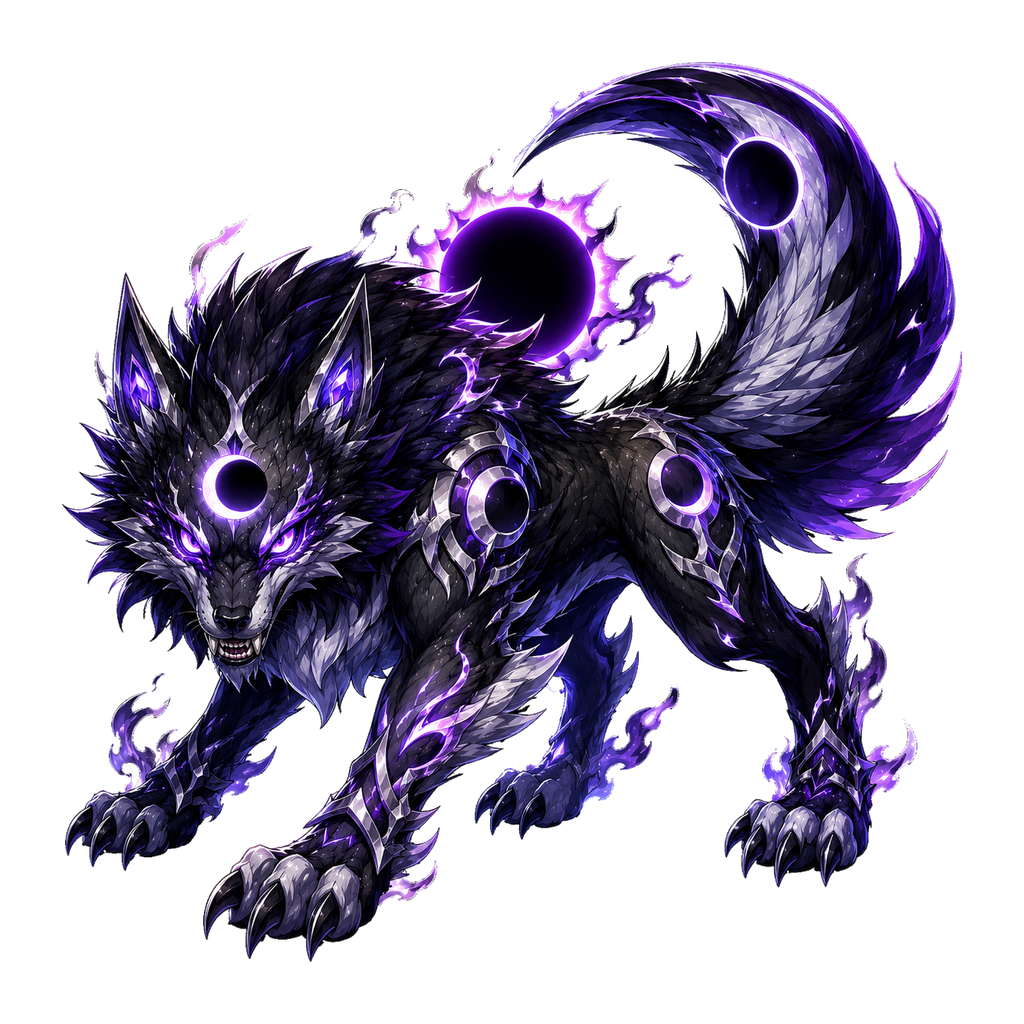
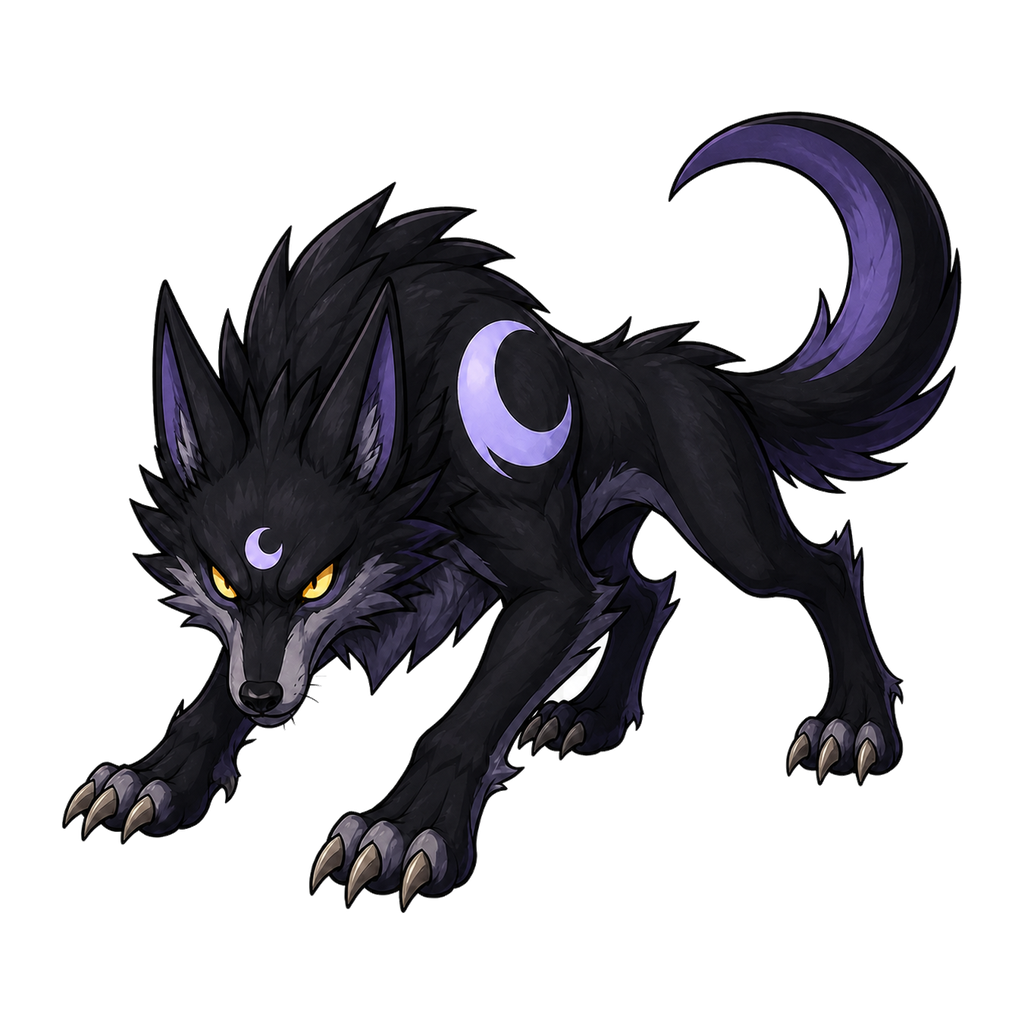
Refresh Phoenix Drake and Eclipse Wolf for v8.6-A.66

diff --git a/index.html b/index.html
@@ -8,11 +8,11 @@
   <meta name="apple-mobile-web-app-capable" content="yes" />
   <meta name="apple-mobile-web-app-status-bar-style" content="black-translucent" />
   <meta name="apple-mobile-web-app-title" content="Monster Links" />
-  <title>モンスターリンクス v8.6-A.65</title>
-  <link rel="manifest" href="manifest.webmanifest?v=8.6-A.65" />
+  <title>モンスターリンクス v8.6-A.66</title>
+  <link rel="manifest" href="manifest.webmanifest?v=8.6-A.66" />
   <link rel="icon" href="assets/images/ui/app-icon-192.png" sizes="192x192" />
   <link rel="apple-touch-icon" href="assets/images/ui/apple-touch-icon.png" />
-  <link rel="stylesheet" href="css/style.css?v=8.6-A.65" />
+  <link rel="stylesheet" href="css/style.css?v=8.6-A.66" />
 </head>
 <body>
   <div id="app" class="app"></div>
@@ -21,50 +21,50 @@
     v3.1: 公開後の見た目 polish。タイトル画面、図鑑、戦闘画面を見やすく調整。
     import/export や fetch(JSON) を使わないため、ローカルで開いても壊れにくい構成です。
   -->
-  <script src="js/core/config.js?v=8.6-A.65"></script>
-  <script src="js/core/balance.js?v=8.6-A.65"></script>
-  <script src="js/core/skills.js?v=8.6-A.65"></script>
-  <script src="js/core/monsters.js?v=8.6-A.65"></script>
-  <script src="js/core/items.js?v=8.6-A.65"></script>
-  <script src="js/core/stages.js?v=8.6-A.65"></script>
-  <script src="js/core/arena.js?v=8.6-A.65"></script>
-  <script src="js/core/recipes.js?v=8.6-A.65"></script>
-  <script src="js/core/quests.js?v=8.6-A.65"></script>
-  <script src="js/core/data.js?v=8.6-A.65"></script>
-  <script src="js/core/utils.js?v=8.6-A.65"></script>
-  <script src="js/core/state.js?v=8.6-A.65"></script>
-  <script src="js/app.js?v=8.6-A.65"></script>
-  <script src="js/systems/battle.js?v=8.6-A.65"></script>
-  <script src="js/systems/arena.js?v=8.6-A.65"></script>
-  <script src="js/systems/fusion.js?v=8.6-A.65"></script>
-  <script src="js/systems/monster.js?v=8.6-A.65"></script>
-  <script src="js/systems/shop.js?v=8.6-A.65"></script>
-  <script src="js/systems/quest.js?v=8.6-A.65"></script>
-  <script src="js/systems/devtools.js?v=8.6-A.65"></script>
-  <script src="js/systems/filters.js?v=8.6-A.65"></script>
-  <script src="js/systems/fusionGoals.js?v=8.6-A.65"></script>
-  <script src="js/systems/dex.js?v=8.6-A.65"></script>
-  <script src="js/views/layoutView.js?v=8.6-A.65"></script>
-  <script src="js/views/titleView.js?v=8.6-A.65"></script>
-  <script src="js/views/imageView.js?v=8.6-A.65"></script>
-  <script src="js/views/uiView.js?v=8.6-A.65"></script>
-  <script src="js/views/monsterComponents.js?v=8.6-A.65"></script>
-  <script src="js/views/fusionGoalsView.js?v=8.6-A.65"></script>
-  <script src="js/views/homeView.js?v=8.6-A.65"></script>
-  <script src="js/views/stageView.js?v=8.6-A.65"></script>
-  <script src="js/views/monsterView.js?v=8.6-A.65"></script>
-  <script src="js/views/fusionView.js?v=8.6-A.65"></script>
-  <script src="js/views/dexView.js?v=8.6-A.65"></script>
-  <script src="js/views/questView.js?v=8.6-A.65"></script>
-  <script src="js/views/shopView.js?v=8.6-A.65"></script>
-  <script src="js/views/settingsView.js?v=8.6-A.65"></script>
-  <script src="js/views/menuView.js?v=8.6-A.65"></script>
-  <script src="js/views/arenaView.js?v=8.6-A.65"></script>
-  <script src="js/views/helpView.js?v=8.6-A.65"></script>
-  <script src="js/views/devToolsView.js?v=8.6-A.65"></script>
-  <script src="js/views/battleView.js?v=8.6-A.65"></script>
-  <script src="js/views/render.js?v=8.6-A.65"></script>
-  <script src="js/pwa.js?v=8.6-A.65"></script>
-  <script src="js/main.js?v=8.6-A.65"></script>
+  <script src="js/core/config.js?v=8.6-A.66"></script>
+  <script src="js/core/balance.js?v=8.6-A.66"></script>
+  <script src="js/core/skills.js?v=8.6-A.66"></script>
+  <script src="js/core/monsters.js?v=8.6-A.66"></script>
+  <script src="js/core/items.js?v=8.6-A.66"></script>
+  <script src="js/core/stages.js?v=8.6-A.66"></script>
+  <script src="js/core/arena.js?v=8.6-A.66"></script>
+  <script src="js/core/recipes.js?v=8.6-A.66"></script>
+  <script src="js/core/quests.js?v=8.6-A.66"></script>
+  <script src="js/core/data.js?v=8.6-A.66"></script>
+  <script src="js/core/utils.js?v=8.6-A.66"></script>
+  <script src="js/core/state.js?v=8.6-A.66"></script>
+  <script src="js/app.js?v=8.6-A.66"></script>
+  <script src="js/systems/battle.js?v=8.6-A.66"></script>
+  <script src="js/systems/arena.js?v=8.6-A.66"></script>
+  <script src="js/systems/fusion.js?v=8.6-A.66"></script>
+  <script src="js/systems/monster.js?v=8.6-A.66"></script>
+  <script src="js/systems/shop.js?v=8.6-A.66"></script>
+  <script src="js/systems/quest.js?v=8.6-A.66"></script>
+  <script src="js/systems/devtools.js?v=8.6-A.66"></script>
+  <script src="js/systems/filters.js?v=8.6-A.66"></script>
+  <script src="js/systems/fusionGoals.js?v=8.6-A.66"></script>
+  <script src="js/systems/dex.js?v=8.6-A.66"></script>
+  <script src="js/views/layoutView.js?v=8.6-A.66"></script>
+  <script src="js/views/titleView.js?v=8.6-A.66"></script>
+  <script src="js/views/imageView.js?v=8.6-A.66"></script>
+  <script src="js/views/uiView.js?v=8.6-A.66"></script>
+  <script src="js/views/monsterComponents.js?v=8.6-A.66"></script>
+  <script src="js/views/fusionGoalsView.js?v=8.6-A.66"></script>
+  <script src="js/views/homeView.js?v=8.6-A.66"></script>
+  <script src="js/views/stageView.js?v=8.6-A.66"></script>
+  <script src="js/views/monsterView.js?v=8.6-A.66"></script>
+  <script src="js/views/fusionView.js?v=8.6-A.66"></script>
+  <script src="js/views/dexView.js?v=8.6-A.66"></script>
+  <script src="js/views/questView.js?v=8.6-A.66"></script>
+  <script src="js/views/shopView.js?v=8.6-A.66"></script>
+  <script src="js/views/settingsView.js?v=8.6-A.66"></script>
+  <script src="js/views/menuView.js?v=8.6-A.66"></script>
+  <script src="js/views/arenaView.js?v=8.6-A.66"></script>
+  <script src="js/views/helpView.js?v=8.6-A.66"></script>
+  <script src="js/views/devToolsView.js?v=8.6-A.66"></script>
+  <script src="js/views/battleView.js?v=8.6-A.66"></script>
+  <script src="js/views/render.js?v=8.6-A.66"></script>
+  <script src="js/pwa.js?v=8.6-A.66"></script>
+  <script src="js/main.js?v=8.6-A.66"></script>
 
 </html>

diff --git a/docs/design/style-reference-reset-preview/index.html b/docs/design/style-reference-reset-preview/index.html
@@ -128,30 +128,30 @@
 <body>
   <main>
     <header>
-      <p class="eyebrow">STYLE RESET / REVIEW ONLY</p>
-      <h1>モンスター絵柄 再基準案</h1>
-      <p>参考画像の「手描き感・分かりやすい輪郭・表情のある魔物」を、S・Aランクへ展開した比較案です。</p>
+      <p class="eyebrow">PRODUCTION / v8.6-A.66</p>
+      <h1>モンスター絵柄 新基準</h1>
+      <p>参考画像の「手描き感・分かりやすい輪郭・表情のある魔物」を、S・Aランクへ展開した正式版です。</p>
     </header>
 
     <section class="compare-grid" aria-label="SランクとAランクの絵柄比較">
       <article class="card" aria-labelledby="phoenix-name">
         <span class="rank rank-s">S</span>
         <figure>
-          <img src="./phoenixdrake-direction-v2.png?v=preview-3" width="1254" height="1254" alt="赤い竜の体と大きな炎の翼を持つSランクのフェニックスドレイク調整案">
+          <img src="../../../assets/images/monsters/phoenixdrake.png?v=8.6-A.66" width="1024" height="1024" alt="赤い竜の体と大きな炎の翼を持つSランクのフェニックスドレイク正式版">
           <figcaption id="phoenix-name">フェニックスドレイク</figcaption>
         </figure>
         <p class="tier-note">大翼・大きな体格・炎の頭飾りで、Sランクの格を表現。</p>
-        <a class="open" href="./phoenixdrake-direction-v2.png?v=preview-3">Sランク画像を大きく表示</a>
+        <a class="open" href="../../../assets/images/monsters/phoenixdrake.png?v=8.6-A.66">Sランク画像を大きく表示</a>
       </article>
 
       <article class="card" aria-labelledby="wolf-name">
         <span class="rank rank-a">A</span>
         <figure>
-          <img src="./eclipsewolf-direction.png?v=preview-3" width="1254" height="1254" alt="黒い毛並みと三日月模様の尾を持つAランクのエクリプスウルフ案">
+          <img src="../../../assets/images/monsters/eclipsewolf.png?v=8.6-A.66" width="1024" height="1024" alt="黒い毛並みと三日月模様の尾を持つAランクのエクリプスウルフ正式版">
           <figcaption id="wolf-name">エクリプスウルフ</figcaption>
         </figure>
         <p class="tier-note">月の印と尾だけに特徴を絞り、Sランクより装飾と規模を抑制。</p>
-        <a class="open" href="./eclipsewolf-direction.png?v=preview-3">Aランク画像を大きく表示</a>
+        <a class="open" href="../../../assets/images/monsters/eclipsewolf.png?v=8.6-A.66">Aランク画像を大きく表示</a>
       </article>
     </section>
 
@@ -165,7 +165,7 @@
         <li>Aランクはモチーフを1つに絞り、Sランクより明確に簡素化</li>
         <li>昆虫らしさ、機械装甲、細かな鱗の描き込みは使わない</li>
       </ul>
-      <p class="status">確認用のみ。ゲームにはまだ反映していません。</p>
+      <p class="status">ユーザー承認済み。v8.6-A.66でゲームへ正式反映しています。</p>
     </section>
   </main>
 </body>

diff --git a/js/core/config.js b/js/core/config.js
@@ -6,7 +6,7 @@
   const SLOT_PREFIX = "monster_links_slot_";
   const ACTIVE_SLOT_KEY = "monster_links_active_slot";
   const SLOT_COUNT = 3;
-  const GAME_VERSION = "8.6-A.65";
+  const GAME_VERSION = "8.6-A.66";
   const SAVE_SCHEMA_VERSION = 1;
   const DEV_PASSWORD = "rei-dev";
   const MAX_PARTY = 3;

diff --git a/service-worker.js b/service-worker.js
@@ -1,6 +1,6 @@
 "use strict";
 
-const VERSION = "8.6-A.65";
+const VERSION = "8.6-A.66";
 const CACHE_PREFIX = "monster-links-";
 const CACHE_NAME = `${CACHE_PREFIX}${VERSION}`;
 const VERSION_QUERY = `v=${VERSION}`;

diff --git a/js/pwa.js b/js/pwa.js
@@ -1,7 +1,7 @@
 (() => {
   "use strict";
 
-  const VERSION = "8.6-A.65";
+  const VERSION = "8.6-A.66";
   const MIN_UPDATE_INTERVAL = 60 * 1000;
   let lastUpdateCheck = 0;
 

diff --git a/docs/MONSTER_DARK_LINEAGE.md b/docs/MONSTER_DARK_LINEAGE.md
@@ -1,9 +1,15 @@
 # Monster Links 闇・毒系整理資料
 
 更新日: 2026-08-17
-対象バージョン: v8.6-A.64
+対象バージョン: v8.6-A.66
 資料種別: アート・系統整理メモ
-ゲーム反映状態: v8.6-A.64でヴェノムハイドラをAランク相応の毒竜へ正式刷新
+ゲーム反映状態: v8.6-A.66でエクリプスウルフをAランク相応の月蝕狼へ正式刷新
+
+## v8.6-A.66 実装メモ
+
+- `eclipsewolf` は、黒い毛並み、肩の三日月印、三日月形の尾を持つ地上型のAランク魔獣へ刷新しました。
+- 大光輪、多重月球、装甲、過剰な発光を外し、Sランクより象徴と画面占有を抑えました。
+- 既存ID、表示名、rank、type、能力、技、配合、ステージ、セーブ形式は変更していません。
 
 ## v8.6-A.64 実装メモ
 
@@ -63,7 +69,7 @@
 | 呪眼魔物 | `doomgazer` | ドゥームゲイザー | A | dark | v8.6-A.4実装済み | 浮遊する巨大魔眼。呪い・視線・邪視の上位枠。 |
 | 魔王 | `demonlord` | デモンロード | S | dark | v8.6-A.4実装済み | 翼と重装鎧を持つ魔王。闇系の最上位。 |
 | 虚無竜 | `voiddragon` | ヴォイドドラゴン | S | dark | v8.6-A.63正式刷新 | マットな黒鱗と紫縁の虚無裂傷を持つ有機的な最上位ドラゴン。 |
-| 月蝕狼 | `eclipsewolf` | エクリプスウルフ | A | dark | v8.6-A.4実装済み | 月蝕と虚無をまとった上位狼。 |
+| 月蝕狼 | `eclipsewolf` | エクリプスウルフ | A | dark | v8.6-A.66正式刷新 | 黒い毛並み、肩の三日月印、三日月形の尾を持つ地上型のAランク魔獣。 |
 | 悪夢角虫 | `nightmarestag` | ナイトメアスタッグ | A | dark | v8.6-A.4実装済み | 悪夢と巨大角を備えた上位魔獣。 |
 | 毒合成獣 | `venomchimera` | ヴェノムキマイラ | S | dark | v8.6-A.4実装済み | 毒と複数生物の特徴を持つ最上位合成獣。 |
 | 毒飛行獣 | `venomwing` | ベノムバット | C | wing | v8.6-A.4実装済み | 毒霧と毒牙を持つコウモリ系。闇毒交差枠。 |
@@ -75,7 +81,7 @@
 
 ## 3. 維持対象
 
-以下は、採用済み高ランク10体または既に方向性が固まっているため、現時点で無理に再設計しません。
+以下は、現行の承認済みデザインを維持する対象です。`eclipsewolf` はv8.6-A.66正式刷新後の姿を指します。
 
 ```text
 eclipsewolf   / エクリプスウルフ

diff --git a/README.md b/README.md
@@ -1,6 +1,17 @@
-# Monster Links v8.6-A.65
+# Monster Links v8.6-A.66
 
 スマホでも遊べる、ソロ向けモンスター育成・配合RPGです。
+
+## v8.6-A.66 update
+
+- Rebuilt Phoenix Drake and Eclipse Wolf around the user-approved classic hand-drawn monster direction.
+- Made the S/A-rank hierarchy explicit: Phoenix Drake uses scale, great wings, and mass, while Eclipse Wolf is limited to one crescent motif and a grounded silhouette.
+- Removed the recent gem, neon, armor, and particle-heavy visual language from this approved pair.
+- Kept every slime-family monster unchanged and preserved both monster IDs, ranks, stats, recipes, stages, progression, rewards, and battle balance.
+- Added true-alpha 1024 x 1024 production art and archived the v8.6-A.65 originals for rollback.
+- Updated the responsive [monster style and rank comparison](docs/design/style-reference-reset-preview/index.html) to the production assets.
+- Preserved save schema 1 and all existing save/storage keys.
+- Updated PWA/cache version to v8.6-A.66.
 
 ## v8.6-A.65 update
 
@@ -181,7 +192,7 @@
 ## 現在の安定版
 
 ```text
-v8.6-A.65 responsive display repair
+v8.6-A.66 approved monster style reset — batch 1
 ```
 
 ## v8.6-A.49 update

diff --git a/docs/PROJECT_SPEC_CHATGPT.md b/docs/PROJECT_SPEC_CHATGPT.md
@@ -1,7 +1,7 @@
 # Monster Links 現行プロジェクト仕様書
 
 更新日: 2026-08-17
-対象バージョン: v8.6-A.65
+対象バージョン: v8.6-A.66
 
 この文書は、普通のChatGPTや別の開発担当へプロジェクトを引き継ぐための現行仕様書です。
 古いdocsと内容が異なる場合は、この文書と実際のゲームコードを優先してください。
@@ -199,7 +199,7 @@ PNG
 
 ### 2026年6月7日時点の維持対象（履歴）
 
-以下は2026年6月7日に確認・実装済みとした当時の一覧です。現在は個別承認を優先し、`venomchimera` はv8.6-A.61、`celestiseraph` はv8.6-A.62、`omegaframe` はv8.6-A.63、`chaoswyrm` はv8.6-A.64で正式刷新済みです。
+以下は2026年6月7日に確認・実装済みとした当時の一覧です。現在は個別承認を優先し、`venomchimera` はv8.6-A.61、`celestiseraph` はv8.6-A.62、`omegaframe` はv8.6-A.63、`chaoswyrm` はv8.6-A.64、`phoenixdrake` と `eclipsewolf` はv8.6-A.66で正式刷新済みです。
 
 ```text
 phoenixdrake     フェニックスドレイク

diff --git a/docs/VERSION_HISTORY.md b/docs/VERSION_HISTORY.md
@@ -1,5 +1,16 @@
 # Version History
 
+## v8.6-A.66 Approved monster style reset — batch 1
+
+- Rebuilt Phoenix Drake and Eclipse Wolf around the approved classic hand-drawn monster direction.
+- Expressed S-rank status through Phoenix Drake's scale, great wings, and mass while keeping A-rank Eclipse Wolf to one crescent identifier and a grounded silhouette.
+- Removed gem, neon, armor, and particle-heavy visual language from this pair.
+- Kept all slime-family art unchanged.
+- Replaced only the two existing production PNGs while preserving monster IDs, ranks, stats, recipes, progression, rewards, stages, and battle balance.
+- Added true-alpha 1024 x 1024 assets and archived the v8.6-A.65 originals for rollback.
+- Preserved save schema 1 and every existing save/storage key.
+- Updated PWA/cache version to v8.6-A.66.
+
 ## v8.6-A.65 Responsive display repair
 
 - Repaired contrast regressions where Atlas light-theme text colors were applied over legacy dark modal panels.

diff --git a/docs/CURRENT_VERSION.md b/docs/CURRENT_VERSION.md
@@ -1,3 +1,16 @@
+v8.6-A.66 approved monster style reset — batch 1
+GAME_VERSION to 8.6-A.66
+
+Main changes:
+- Rebuilt Phoenix Drake and Eclipse Wolf in the user-approved hand-drawn monster direction.
+- Preserved an explicit rank hierarchy: S-rank Phoenix Drake is defined by great wings, body mass, and flame crest; A-rank Eclipse Wolf uses one crescent motif and a grounded body.
+- Replaced only the two existing production PNGs; monster IDs, ranks, stats, recipes, progression, rewards, stages, and battle balance are unchanged.
+- Kept every slime-family monster unchanged.
+- Added true-alpha 1024 x 1024 assets and preserved the v8.6-A.65 art in a rollback directory.
+- Preserved save schema 1, save keys, and all content IDs.
+- Updated PWA/cache version to v8.6-A.66.
+---
+
 v8.6-A.65 responsive display repair
 GAME_VERSION to 8.6-A.65
 
